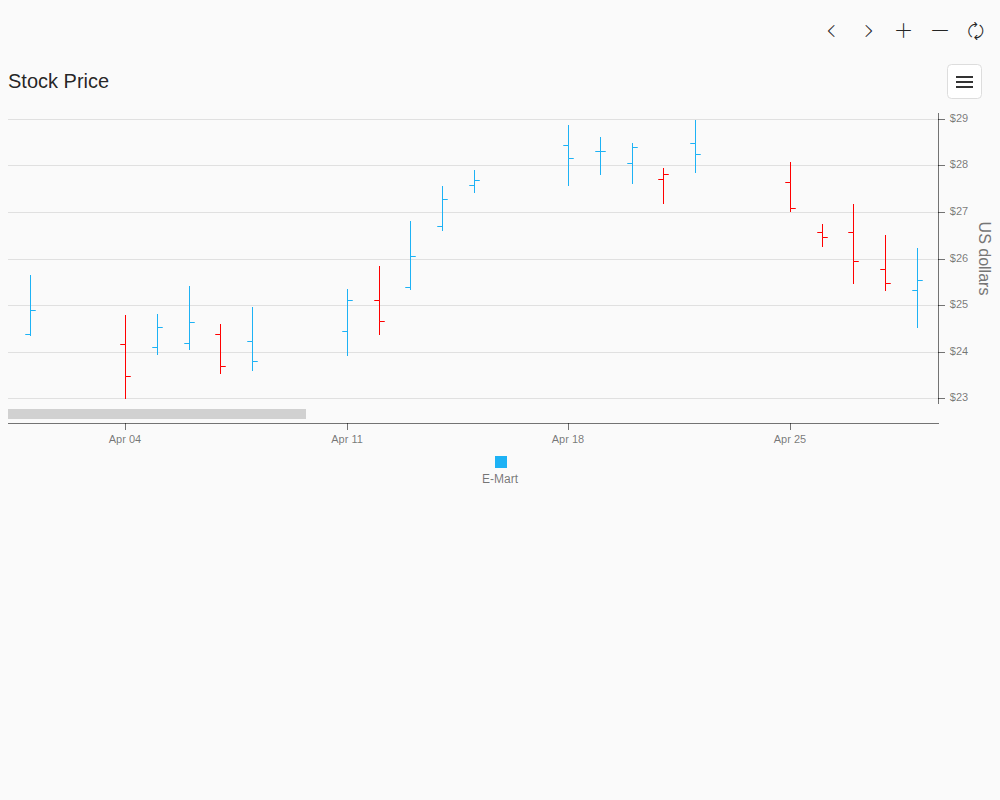
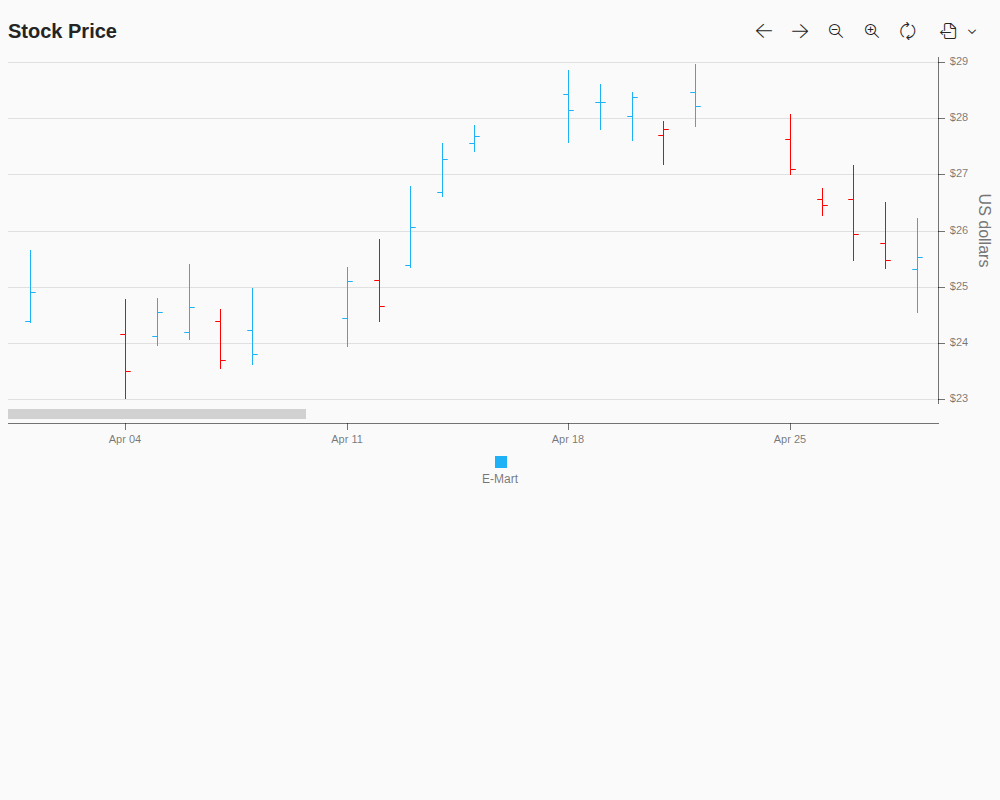
Fix etalons, add resizePanesOnZoom

diff --git a/apps/demos/Demos/Charts/Stock/Angular/app/app.component.html b/apps/demos/Demos/Charts/Stock/Angular/app/app.component.html
@@ -42,7 +42,7 @@
   >
   </dxi-toolbar-item>
 </dx-toolbar>
-<dx-chart id="chart" [dataSource]="stockPrices">
+<dx-chart id="chart" [dataSource]="stockPrices" [resizePanesOnZoom]="true">
   <dxi-chart-series
     name="E-Mart"
     openValueField="o"

diff --git a/apps/demos/Demos/Charts/Stock/React/App.tsx b/apps/demos/Demos/Charts/Stock/React/App.tsx
@@ -189,6 +189,7 @@ function App() {
         id="chart"
         ref={chartRef}
         dataSource={dataSource}
+        resizePanesOnZoom={true}
       >
         <CommonSeriesSettings argumentField="date" type="stock" />
         <Series

diff --git a/apps/demos/Demos/Charts/Stock/jQuery/index.js b/apps/demos/Demos/Charts/Stock/jQuery/index.js
@@ -17,6 +17,7 @@ $(() => {
 
   const chart = $('#chart').dxChart({
     dataSource: data,
+    resizePanesOnZoom: true,
     commonSeriesSettings: { argumentField: 'date', type: 'stock' },
     series: [{
       name: 'E-Mart',

diff --git a/apps/demos/Demos/Charts/Stock/ReactJs/App.js b/apps/demos/Demos/Charts/Stock/ReactJs/App.js
@@ -208,6 +208,7 @@ function App() {
         id="chart"
         ref={chartRef}
         dataSource={dataSource}
+        resizePanesOnZoom={true}
       >
         <CommonSeriesSettings
           argumentField="date"

diff --git a/apps/demos/Demos/Charts/Stock/Vue/App.vue b/apps/demos/Demos/Charts/Stock/Vue/App.vue
@@ -40,6 +40,7 @@
     id="chart"
     ref="chart"
     :data-source="dataSource"
+    :resize-panes-on-zoom="true"
   >
     <DxCommonSeriesSettings
       argument-field="date"
